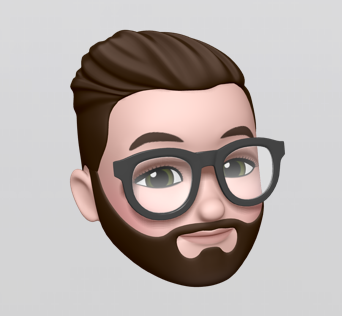
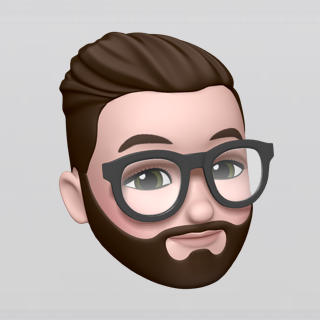
Resized the picture to make it perfect square, defined a border radius on the img id to make the picture round and added some padding to the figure.

diff --git a/css/style.css b/css/style.css
@@ -229,7 +229,7 @@ p {
 
 figure {
 
-    margin:0; 
+    margin:0;
     padding:0;
 }
 
@@ -246,6 +246,7 @@ img {
     border: 1px solid #CCCCCC;
     display: flex;
     justify-content: space-between;
+    
 }
 
 
@@ -382,7 +383,7 @@ img {
 #minor-content {
 
     max-width: 20%; /* Ensure that the maximum width of the flex (child) element will always be less than the half of container width to be able to see the space between flex elements */
-
+    min-width: 20%;
 }
 
 #main-content {
@@ -391,5 +392,19 @@ img {
 
 }
 
+#picture-location {
+
+    padding:20%;
+   
+}
+
+#picture {
+
+    border: 4px solid #daaf12;
+    border-radius: 50%;
+   
+}
+
 
 /*--------- ----------- ----------*/
+

diff --git a/index.html b/index.html
@@ -18,8 +18,8 @@
     <div id="minor-content">
         <aside><!-- Content out of the page flow -->
             <header>
-                <figure>
-                    <img src="img/profile_picture.jpg" alt="Claudiu COTAN profile picture">
+                <figure id="picture-location">
+                    <img id="picture" src="img/profile_picture.jpg" alt="Claudiu COTAN profile picture">
                 </figure>
             </header>
             <section>
